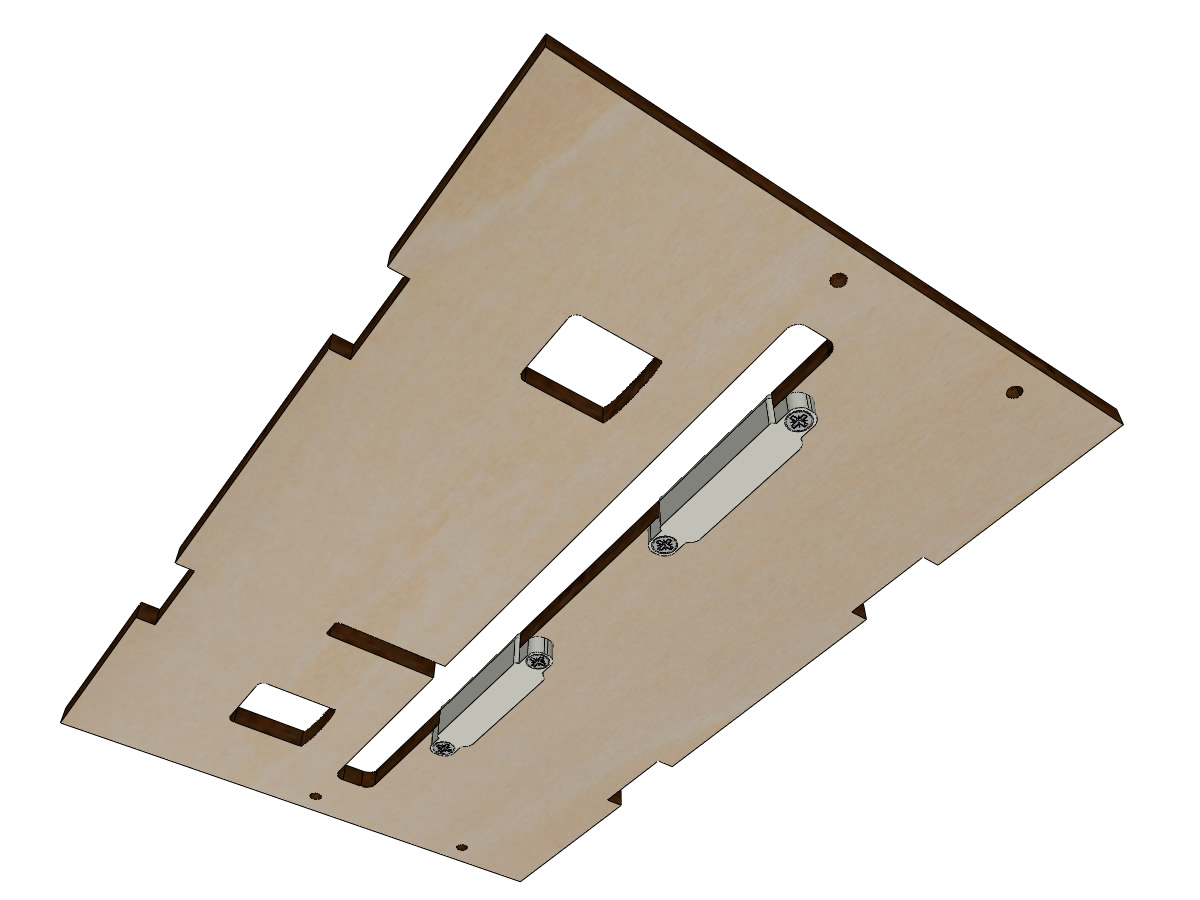
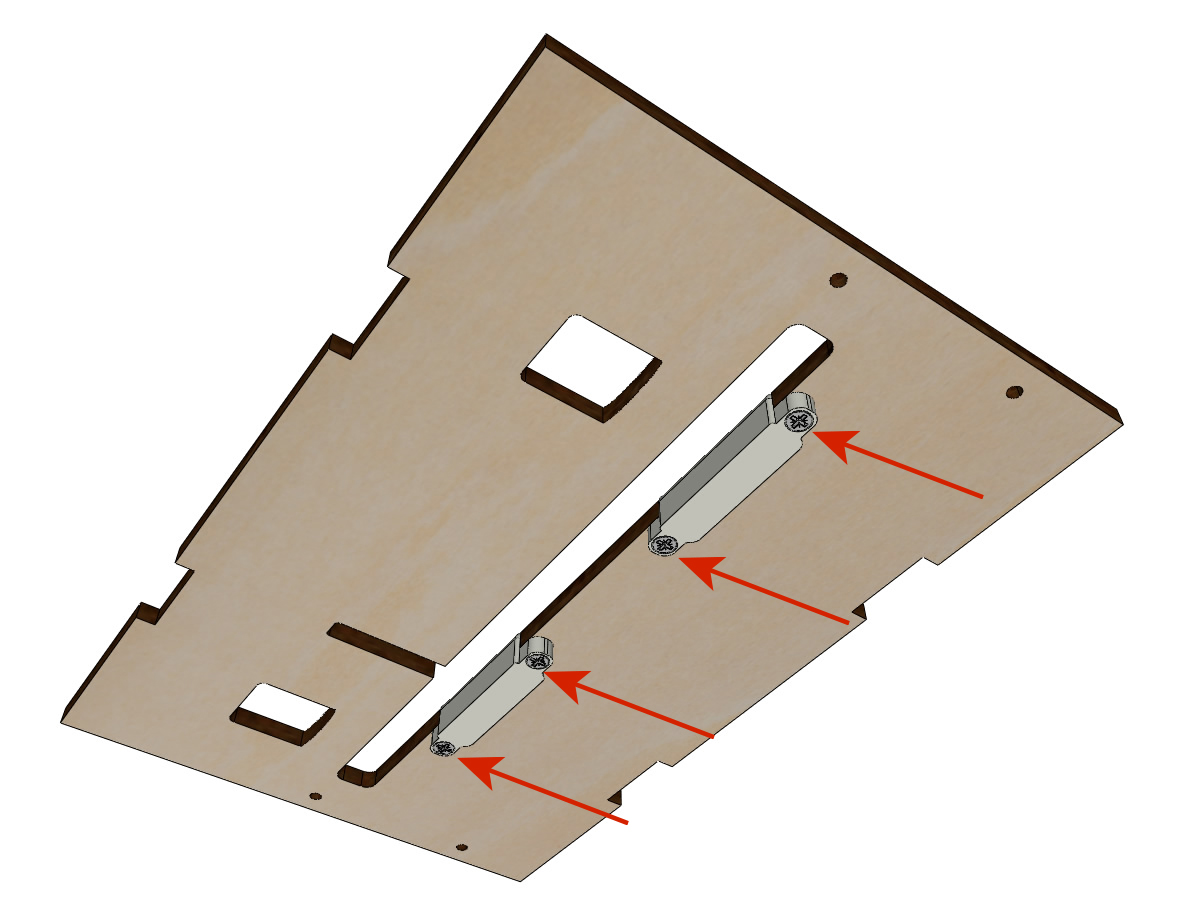
doc

diff --git a/docs/assemblage.rst b/docs/assemblage.rst
@@ -703,6 +703,9 @@ Matériel :
 
 * Visser les deux les 2 PAPER_raiser sur la plaque par en dessous avec les vis à bois.
 
+.. image :: ./IMG/BrailleRAP-V5.95.jpg
+       :align: center
+
 
 
 Montage des presse-papier :
@@ -722,7 +725,7 @@ Montage de la carte électronique sur la caisse
 Matériel :
 
   * Carte MKS GEN 1.4
-  * 4 entretoise M3-10
+  * 4 entretoises M3-10
   * 8 vis M3-10
 
 * Assembler les 4 entretoises sur la carte  **AJOUTER IMAGE**
